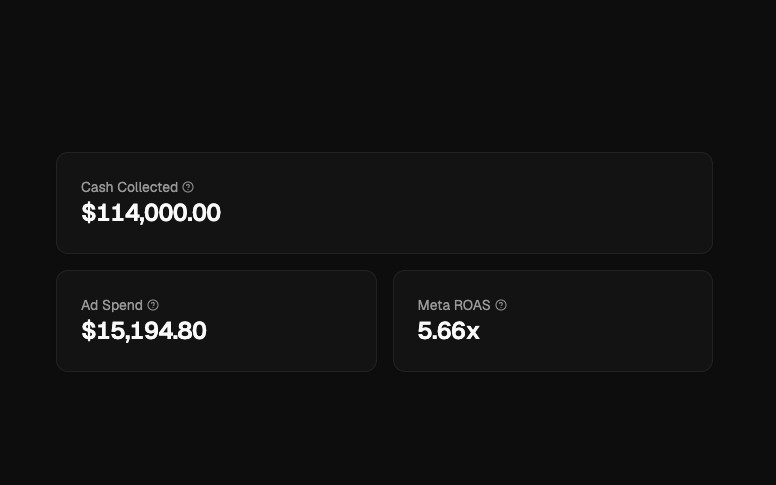
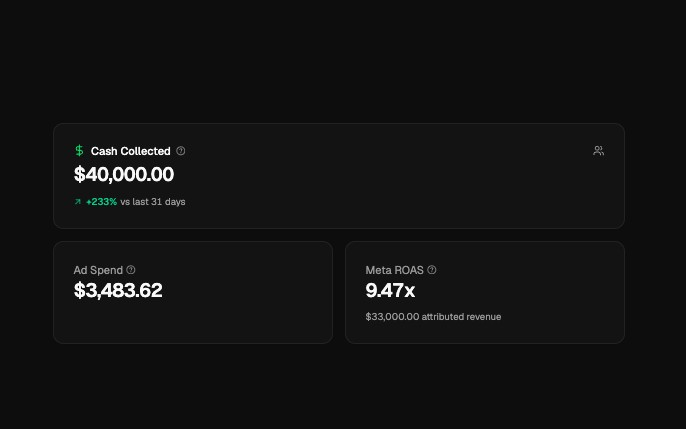
Card 2 After screenshot: $3.5K spend, 9.47x ROAS, $33K attributed

diff --git a/script.js b/script.js
@@ -14,7 +14,7 @@ const COMPARISONS = [
     title: "10x ROAS First 30 Days",
     tags: ["B2C Mentorship Offer", "Real Estate Niche", "$8K–$12K Ticket"],
     before: { label: "Before", img: "assets/compare/2-organic.jpg", caption: "Before: $21K from YouTube · 18 bookings · 31 opt-ins · 1,113 clicks", text: "This real estate mentor had validated his first $21K on organic, but most of his calls weren’t with buyers. They were with people who wanted to network, pick his brain, or talk deals without any capital to back it up. Only a handful could actually afford an $8K–$12K program, and he had no way to control who came through, or when." },
-    after: { label: "After", img: "assets/compare/2-paid.jpg", caption: "After: paid funnel results", text: "We built him a paid funnel from the ground up: a new VSL, landing page, application, pre-call warm-up, and our Direct Offer ads speaking directly to investors with capital ready to deploy. His first $3K in ad spend turned into $33K, a 10x ROAS in month one. We scaled the next month to $49K at an 8.6x ROAS, with his team closing nearly 40% of calls." },
+    after: { label: "After", img: "assets/compare/2-paid.jpg", caption: "After: $40K cash collected · $3,483.62 ad spend · 9.47x Meta ROAS", text: "We built him a paid funnel from the ground up: a new VSL, landing page, application, pre-call warm-up, and our Direct Offer ads speaking directly to investors with capital ready to deploy. His first $3K in ad spend turned into $33K, a 10x ROAS in month one. We scaled the next month to $49K at an 8.6x ROAS, with his team closing nearly 40% of calls." },
     inputs: [["$3K", "Ad spend"]],
     outputs: [["$33K", "Cash collected"], ["10x", "ROAS", true]],
   },
